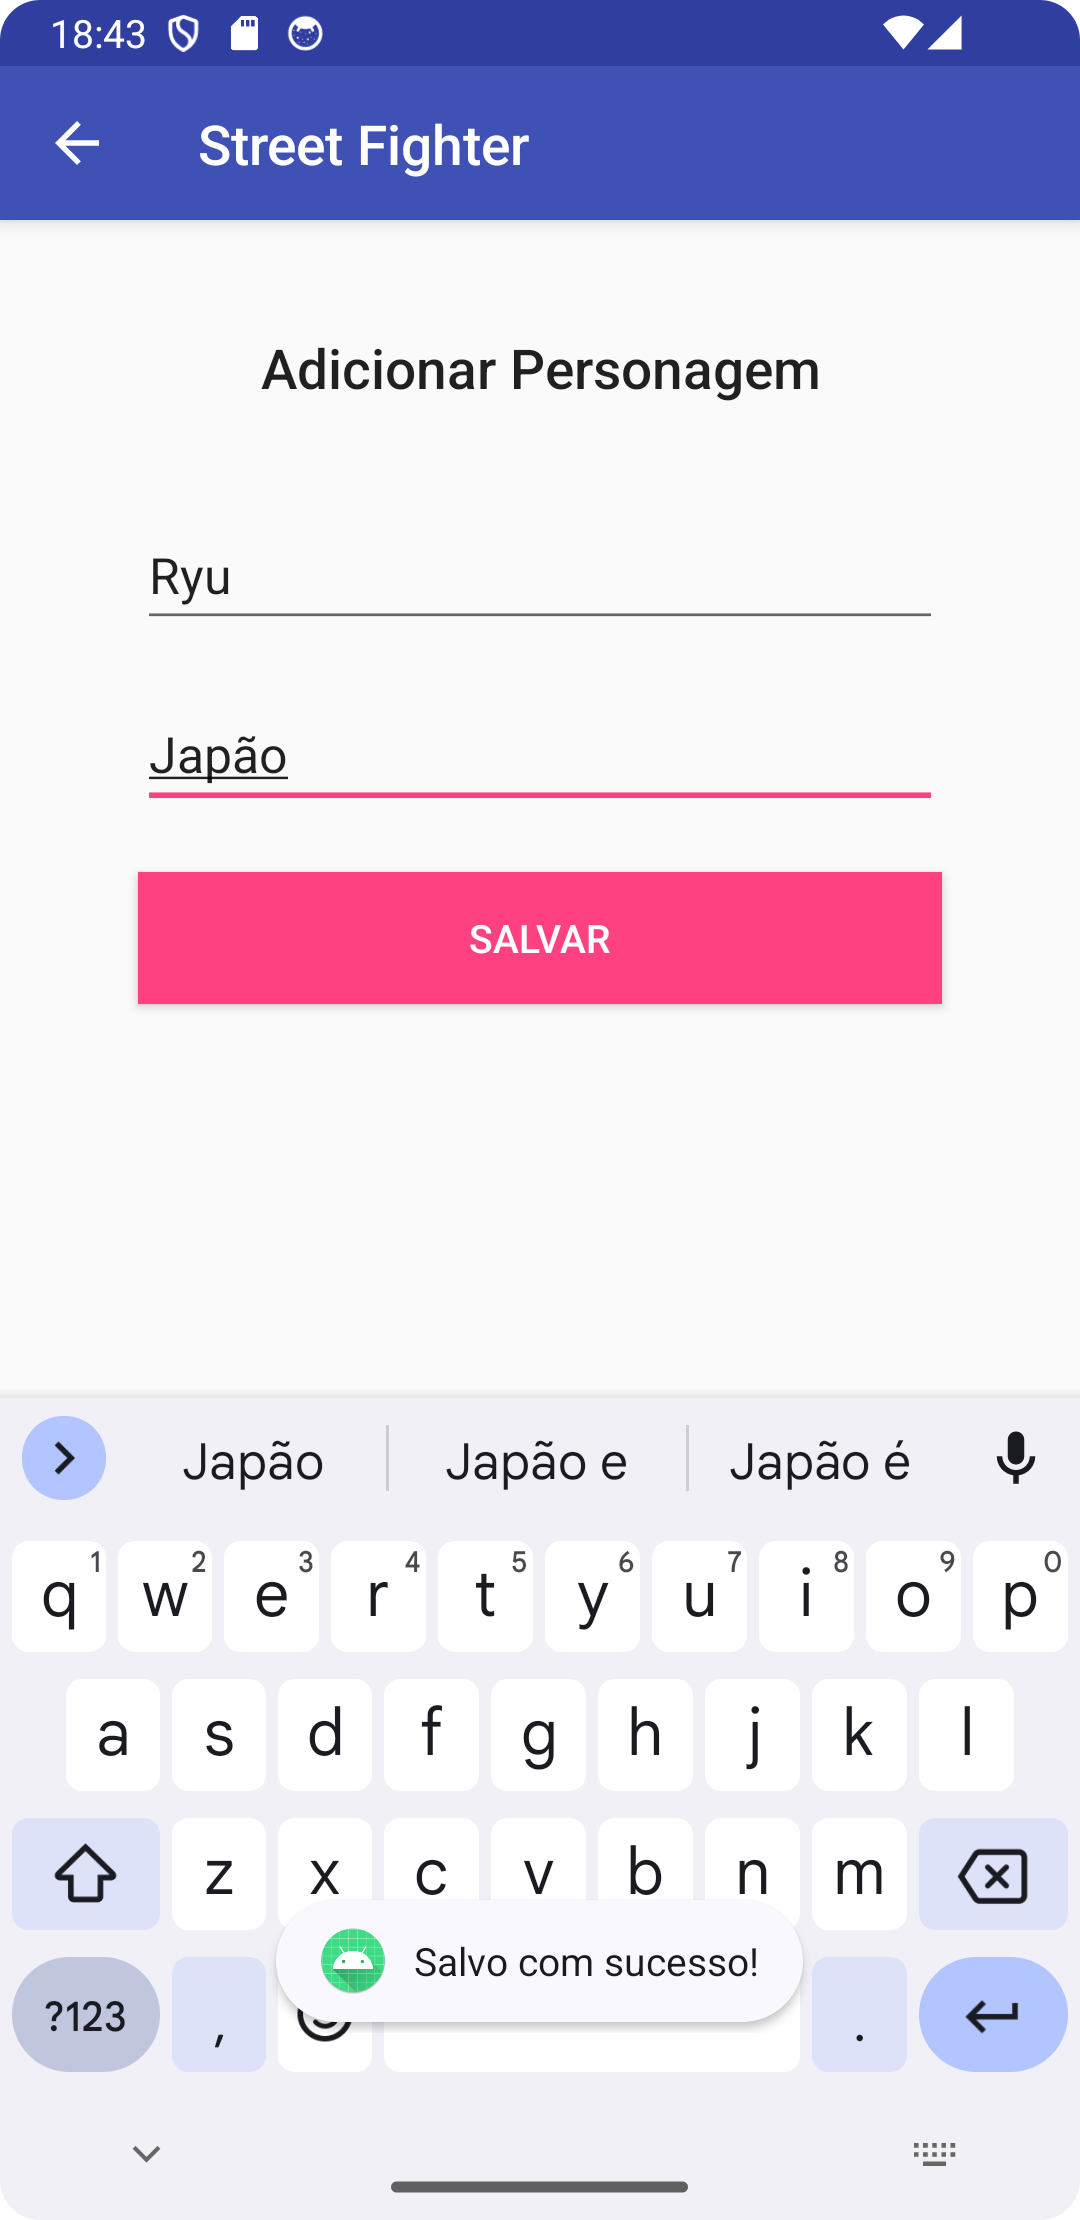
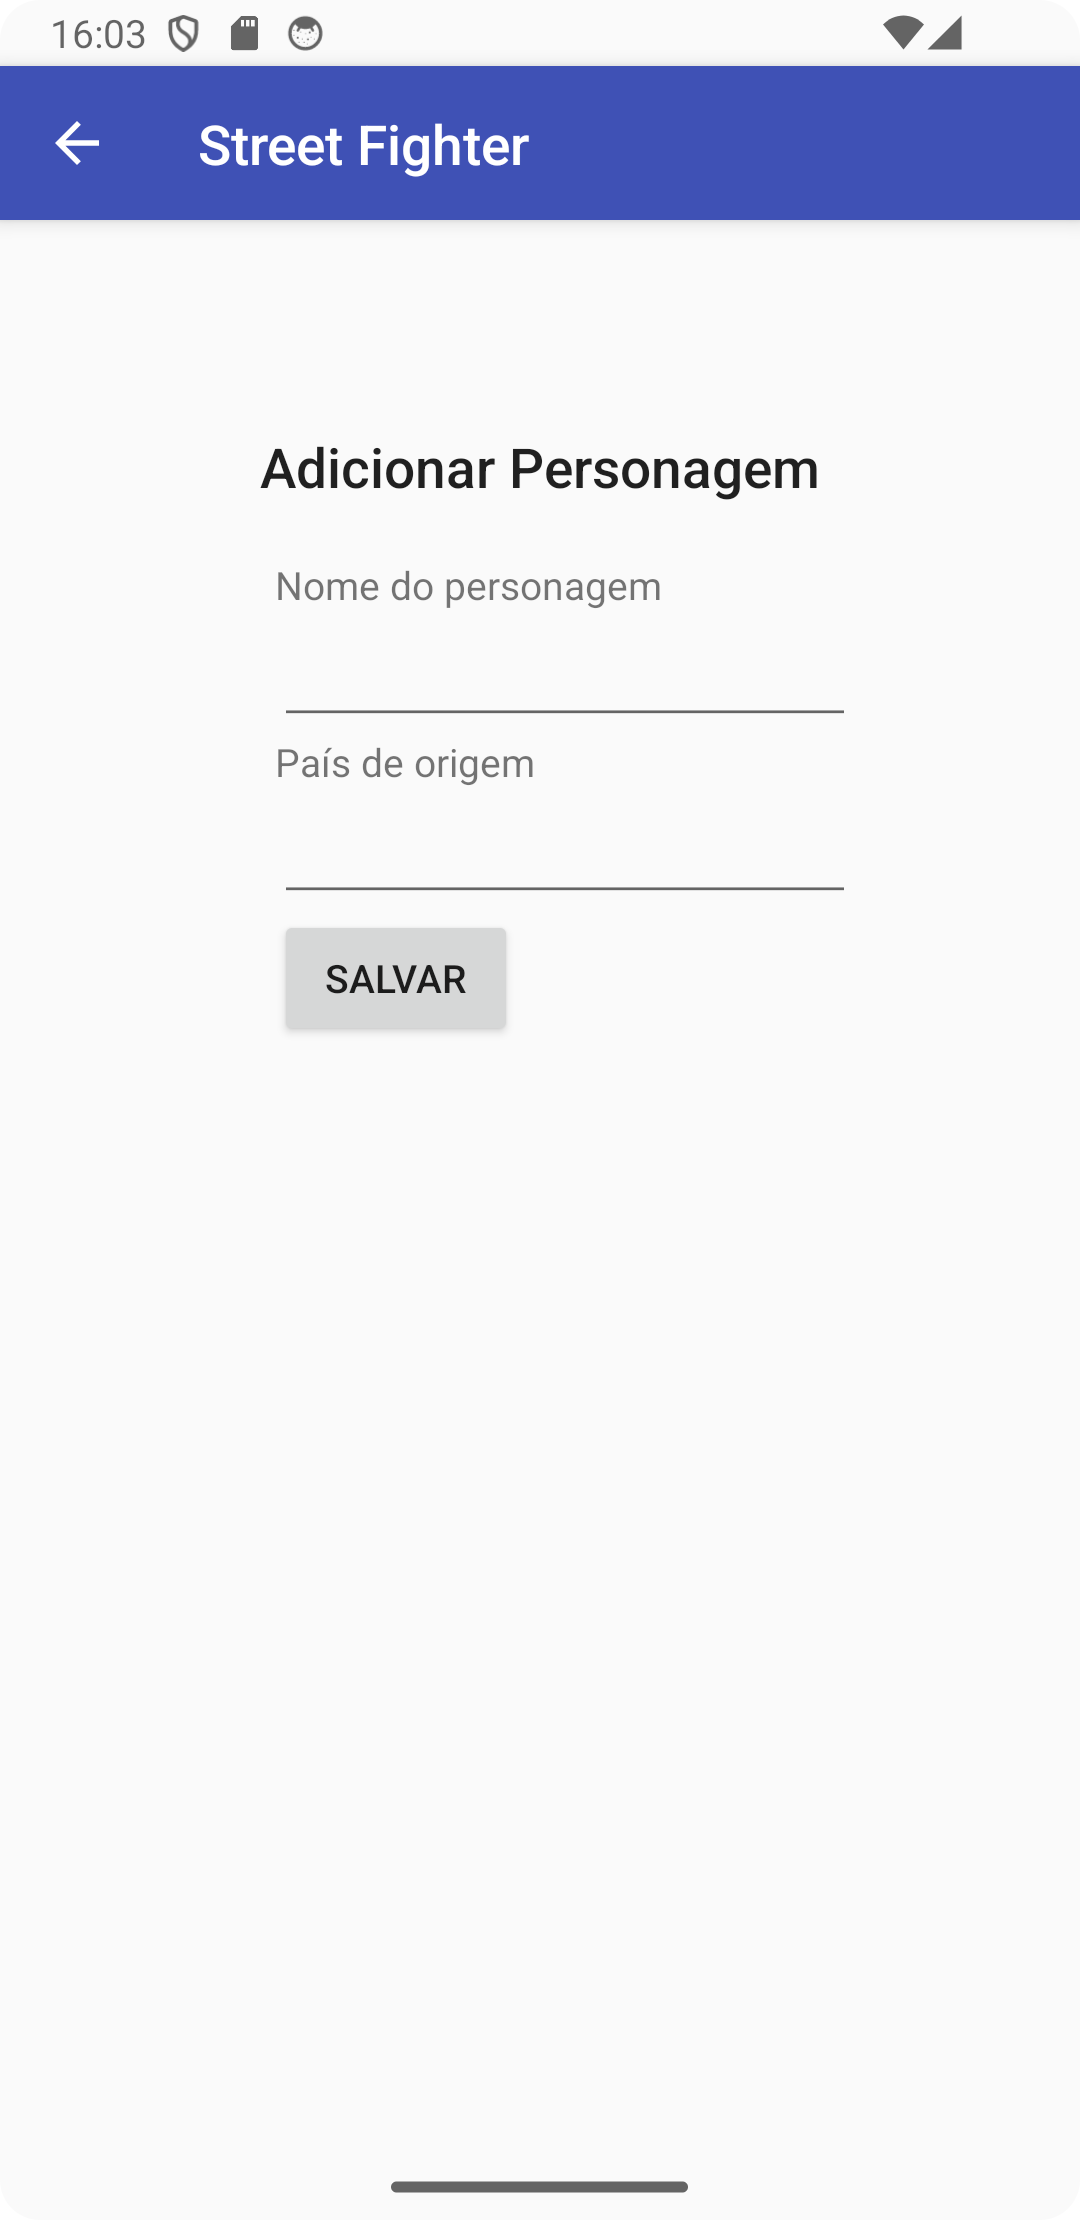
Form layout e Splash Screen

diff --git a/app/src/main/java/br/rafaelhorochovec/app_streetfighter_android/SplashScreenActivity.java b/app/src/main/java/br/rafaelhorochovec/app_streetfighter_android/SplashScreenActivity.java
@@ -1,0 +1,31 @@
+package br.rafaelhorochovec.app_streetfighter_android;
+
+import android.content.Intent;
+import android.os.Bundle;
+import android.os.Handler;
+
+import androidx.appcompat.app.AppCompatActivity;
+
+public class SplashScreenActivity extends AppCompatActivity {
+
+    @Override
+    protected void onCreate(Bundle savedInstanceState) {
+        super.onCreate(savedInstanceState);
+        getSupportActionBar().hide();
+        setContentView(R.layout.activity_splash_screen);
+
+        new Handler().postDelayed(new Runnable() {
+            @Override
+            public void run() {
+                initSplashActivity();
+            }
+        }, 3000);
+    }
+
+    private void initSplashActivity() {
+        Intent i = new Intent(getBaseContext(), MainActivity.class);
+        startActivity(i);
+        overridePendingTransition(android.R.anim.fade_in, android.R.anim.fade_out);
+        finish();
+    }
+}
